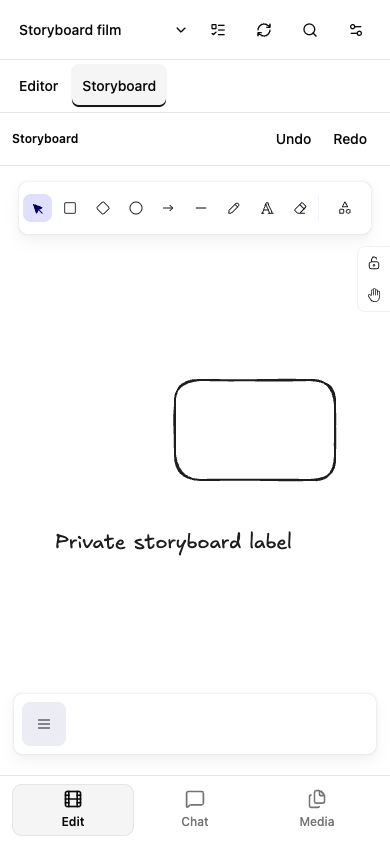
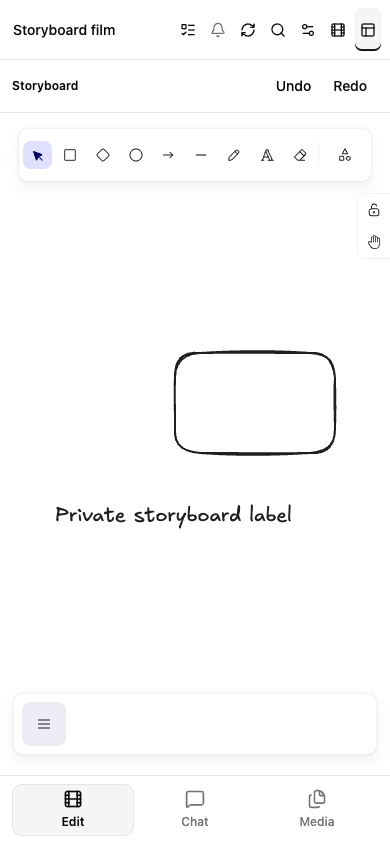
Refine workspace header navigation and tab placement

diff --git a/src/workspace/Workspace.tsx b/src/workspace/Workspace.tsx
@@ -18,7 +18,6 @@ import {
   Search,
   PanelLeftClose,
   Scissors,
-  ChevronDown,
   Files,
   Upload,
   Settings2,
@@ -1982,22 +1981,10 @@ export function Workspace() {
       )}
       {(!narrow || projectsOpen) && (
         <header ref={header} className="workspace-header">
-          {busy ? (
-            <span className="brand">
-              <Scissors aria-hidden="true" />
-              <span className="brand-name">LocalCut</span>
-            </span>
-          ) : (
-            <button
-              className="brand"
-              type="button"
-              aria-label="LocalCut home"
-              onClick={showProjects}
-            >
-              <Scissors aria-hidden="true" />
-              <span className="brand-name">LocalCut</span>
-            </button>
-          )}
+          <span className="brand">
+            <Scissors aria-hidden="true" />
+            <span className="brand-name">LocalCut</span>
+          </span>
           {!busy && !projectsOpen && (
             <Button
               variant="ghost"
@@ -2012,13 +1999,12 @@ export function Workspace() {
                 {viewProject?.name ?? 'Untitled project'}
               </span>
               <span className="sr-only">Projects</span>
-              <ChevronDown />
             </Button>
           )}
+          {headerActions}
           {!projectsOpen && project && (
             <ProjectTabs value={projectTab} onChange={chooseProjectTab} />
           )}
-          {headerActions}
         </header>
       )}
       {projectSwitcherOpen && (
@@ -2134,15 +2120,14 @@ export function Workspace() {
                     <span className="project-picker-name">
                       {viewProject?.name ?? 'Edit'}
                     </span>
-                    <ChevronDown />
                   </Button>
+                  {mobileTab === 'edit' ? headerActions : null}
                   {project && (
                     <ProjectTabs
                       value={projectTab}
                       onChange={chooseProjectTab}
                     />
                   )}
-                  {mobileTab === 'edit' ? headerActions : null}
                 </header>
               )}
               {versionsOpen && (

diff --git a/tests/browser/workspace-storyboard.spec.ts b/tests/browser/workspace-storyboard.spec.ts
@@ -240,6 +240,39 @@ for (const base of ['/', '/LocalCut/']) {
       name: 'Storyboard',
       exact: true,
     });
+    const checkHeader = async () => {
+      const tabs = page.getByRole('tablist', { name: 'Project views' });
+      await expect(editorTab).toBeVisible();
+      await expect(storyboardTab).toBeVisible();
+      const heading = page.locator(
+        '.workspace-header:visible, .mobile-edit-heading:visible',
+      );
+      const actions = await heading.locator('.header-actions').boundingBox();
+      const views = await tabs.boundingBox();
+      const first = await editorTab.boundingBox();
+      const second = await storyboardTab.boundingBox();
+      expect(actions).not.toBeNull();
+      expect(views).not.toBeNull();
+      expect(first).not.toBeNull();
+      expect(second).not.toBeNull();
+      expect(views!.x).toBeGreaterThanOrEqual(actions!.x + actions!.width);
+      expect(first!.x).toBeCloseTo(views!.x, 0);
+      expect(second!.x).toBeGreaterThan(first!.x);
+      expect(views!.x + views!.width).toBeLessThanOrEqual(
+        await page.evaluate(() => innerWidth),
+      );
+      await expect(
+        heading
+          .getByRole('button', { name: 'Open project', exact: true })
+          .locator('svg'),
+      ).toHaveCount(0);
+    };
+    await checkHeader();
+    await expect(page.locator('.brand')).toHaveText('LocalCut');
+    await expect(
+      page.getByRole('button', { name: 'LocalCut home' }),
+    ).toHaveCount(0);
+    await expect(page.locator('.brand')).toHaveJSProperty('tagName', 'SPAN');
     await expect(editorTab).toHaveAttribute('aria-selected', 'true');
     await editorTab.focus();
     await page.keyboard.press('ArrowRight');
@@ -476,6 +509,7 @@ for (const base of ['/', '/LocalCut/']) {
     });
     await page.setViewportSize({ width: 390, height: 844 });
     await expect(storyboardTab).toBeVisible();
+    await checkHeader();
     await expect(canvas).toBeVisible();
     await expect
       .poll(() =>

diff --git a/tests/browser/workspace-routing.spec.ts b/tests/browser/workspace-routing.spec.ts
@@ -1,4 +1,5 @@
 import { fulfillChatTitle } from './chat-title-fixture';
+import { openWorkspaceGroup } from './workspace-settings-helper';
 import { expect, test } from '@playwright/test';
 import type { Page } from '@playwright/test';
 
@@ -276,7 +277,10 @@ for (const base of ['/', '/LocalCut/']) {
     await expect(
       page.getByRole('button', { name: 'Saved routed title', exact: true }),
     ).toBeVisible();
-    await page.getByRole('button', { name: 'LocalCut home' }).click();
+    const projectMenu = await openWorkspaceGroup(page, 'Project');
+    await projectMenu
+      .getByRole('menuitem', { name: 'Open project', exact: true })
+      .click();
     await expect(page).toHaveURL(
       new RegExp(`/projects\\?project=${ids.first}$`),
     );

diff --git a/tests/browser/workspace-projects.spec.ts b/tests/browser/workspace-projects.spec.ts
@@ -1,6 +1,7 @@
 import {
   prepareOpenRouterKey,
   openAISettings,
+  openWorkspaceGroup,
 } from './workspace-settings-helper';
 import { versionJourney } from './workspace-version-journey';
 import { expect, test } from '@playwright/test';
@@ -182,8 +183,9 @@ for (const base of ['/', '/LocalCut/']) {
             ),
           )
           .toBeGreaterThan(0);
-        await page
-          .getByRole('button', { name: 'LocalCut home', exact: true })
+        const projectMenu = await openWorkspaceGroup(page, 'Project');
+        await projectMenu
+          .getByRole('menuitem', { name: 'Open project', exact: true })
           .click();
         await expect(browser).toBeVisible();
         await expect(

diff --git a/src/workspace/workspace.css b/src/workspace/workspace.css
@@ -2289,6 +2289,7 @@
 
 .project-tabs {
   display: flex;
+  justify-content: flex-start;
   gap: 2px;
   flex-shrink: 0;
 }

diff --git a/docs/workspace.md b/docs/workspace.md
@@ -6,7 +6,7 @@ Desktop chat, editor and media share shadcn Resizable panels; a vertical divider
 
 The app stays within the viewport; panels and the selected mobile view scroll internally. Dialogs have a stable height of up to 40 rem, capped at the scaled viewport height minus 2 rem. Overflow scrolls inside the dialog, or its dedicated content area for AI settings, clip properties and Commands. Popup scroll boundaries contain wheel and touch scrolling so they cannot move the enclosing dialog or workspace; scrollbars remain hidden.
 
-The narrower chat can collapse into a rail while the editor expands, and returns with its conversation intact. Both regions animate together and respect reduced motion. Settings → AI settings opens the existing AI provider/service/model connection dialog directly. The composer has no information button or intermediate provider popover. Check for update, Commands/search and Settings sit at the far right of the header. The header settings menu reveals Project, Workspace, View and Export groups progressively and includes Appearance; media sits on the left and stays reachable from its edge toggle, with chat on the right. Supporting metadata lives in tooltips and disclosures. Durable design choices are recorded in [user preferences](user-preferences.md).
+The narrower chat can collapse into a rail while the editor expands, and returns with its conversation intact. Both regions animate together and respect reduced motion. Settings → AI settings opens the existing AI provider/service/model connection dialog directly. The composer has no information button or intermediate provider popover. Check for update, Commands/search and Settings sit in the right action group, before the project-view tabs. The header settings menu reveals Project, Workspace, View and Export groups progressively and includes Appearance; media sits on the left and stays reachable from its edge toggle, with chat on the right. Supporting metadata lives in tooltips and disclosures. Durable design choices are recorded in [user preferences](user-preferences.md).
 
 Chat follows the CYOBot instructor workspace's interaction structure: session picker, scrolling transcript, right-aligned user bubbles, plain assistant replies, tool disclosures, approval cards, and a growing composer using the same corner radius as other controls. Tool disclosures expose each call's complete permitted input, result or error separately, subject to the same sharing policy as its remote context. Skill-loading activity is labelled Load skills; each row includes its skill name and actual status, such as Load skills: Indexing · Completed. See the [mobile skill disclosure](images/chat-skill-load-mobile.png). The composer retains typed and dictated text and all explicitly attached images without application size/count ceilings; provider capacity still applies. Enter sends; Shift+Enter inserts a newline. IME composition and repeated Enter do not submit. Stop cancels the active turn, and scrolling up reveals a return-to-latest control. The header session picker searches chat titles, reuses an unused chat or creates one when every chat has messages or a draft, and restores each chat’s transcript and unsent draft. Switching is disabled while a response or approved operation is running. Sessions persist locally in a separate IndexedDB sidecar for the current project, configured LLM route/model and sharing policy. Returning to that context restores its selected chat, transcript and draft across reloads. Chat resizing is available above 900px; narrower layouts use a fixed responsive width.
 
@@ -18,7 +18,7 @@ The header update icon checks on explicit click, with pending feedback and retry
 
 ## Project navigation
 
-Select the project name in the desktop or mobile editor header to open the Projects dialog over the mounted editor. Escape, Close or selecting the Current project dismisses it without changing the URL or editing state. Selecting another project closes it and navigates to that project. LocalCut home, Settings → Project → Open project and Mod+O open the Projects screen. Search saved names, then select a project to open it in the editor. Projects are sorted by name and show clip count and timeline duration; the active project is marked Current. New project and Import backup reuse the existing flows. Workspace/project ZIP imports remain available through settings and Commands.
+Select the project name in the desktop or mobile editor header to open the Projects dialog over the mounted editor; the name has no chevron. Escape, Close or selecting the Current project dismisses it without changing the URL or editing state. Selecting another project closes it and navigates to that project. The LocalCut logo is static branding. Settings → Project → Open project and Mod+O open the Projects screen. Editor and Storyboard tabs sit at the far right of the project header, after the global actions, with left-aligned contents. Search saved names, then select a project to open it in the editor. Projects are sorted by name and show clip count and timeline duration; the active project is marked Current. New project and Import backup reuse the existing flows. Workspace/project ZIP imports remain available through settings and Commands.
 
 Back to editor or selecting the Current project preserves the current selection, playhead, version preview and conversation. Browsing pauses playback and hides the mounted editor from keyboard/accessibility interaction. Opening another project flushes the current project's pending version, resets selection/playhead and clears any previous video download. Project events refresh the list across windows; Refresh projects retries failed loads and picks up saved changes. Bare page navigation remains inert: project storage and editing services initialize after an explicit create/open/import or browse action, or a valid project/catalog route. This screen does not delete, rename or migrate projects.
 
@@ -304,7 +304,7 @@ Fresh provider settings show a shadcn Empty state with Add provider; no remote a
 
 ## Editor and Storyboard
 
-The top project header offers icon-only **Editor** and **Storyboard** tabs with accessible names, selection and tooltips. Mobile places them beside the project name in the same row, without a separate subheader. Editor retains the preview and timeline. Storyboard opens a local Excalidraw canvas for shot panels, notes, arrows, frames and freehand drawings. Chat and media remain alongside the selected view on desktop; on mobile, these project tabs choose the content of the existing Edit view. Arrow keys, Home and End navigate the project tabs. Switching tabs preserves timeline selection/playhead, chat and the diagram; entering Storyboard pauses video playback. The selected view is temporary navigation state. See the [390px header](images/project-header-mobile-390.png) and [320px header](images/project-header-mobile-320.png).
+The top project header offers icon-only **Editor** and **Storyboard** tabs with accessible names, selection and tooltips. Desktop and mobile place them at the far right of the same header row, after global actions, without a separate subheader. Editor retains the preview and timeline. Storyboard opens a local Excalidraw canvas for shot panels, notes, arrows, frames and freehand drawings. Chat and media remain alongside the selected view on desktop; on mobile, these project tabs choose the content of the existing Edit view. Arrow keys, Home and End navigate the project tabs. Switching tabs preserves timeline selection/playhead, chat and the diagram; entering Storyboard pauses video playback. The selected view is temporary navigation state.
 
 Drawings save through revision-aware project commands. Undo/Redo in the storyboard use shared project history, so they can also undo an earlier timeline edit. Canvas drawing shortcuts stay inside the diagram. Historical project versions display their storyboard in read-only mode. Project/workspace backups include diagrams. Source images and web embeds are outside the vector/text canvas; use the media library and timeline for original media. No Excalidraw account, collaboration or cloud save is used.
 

diff --git a/docs/user-preferences.md b/docs/user-preferences.md
@@ -2,6 +2,12 @@
 
 This is the project record of the user's durable product and workflow choices. Update it when the user adds or changes a preference; newer explicit choices take precedence over earlier ones.
 
+## Header navigation — 12 October 2026
+
+- Put Editor and Storyboard (whiteboard) tab triggers at the far right of the project header, after the global actions, retaining left-aligned contents and their existing order.
+- Remove the chevron from the active project name; the name still opens the project-switcher dialog.
+- Render the LocalCut logo as static branding without a navigation link. This supersedes earlier LocalCut home navigation; Settings → Project → Open project and Mod+O retain access to the Projects screen.
+
 ## Chat export — 12 October 2026
 
 - Provide chat-session export as an icon in the chat UI header, outside the primary application header. Use the existing task queue for local archive generation and saved downloads.
